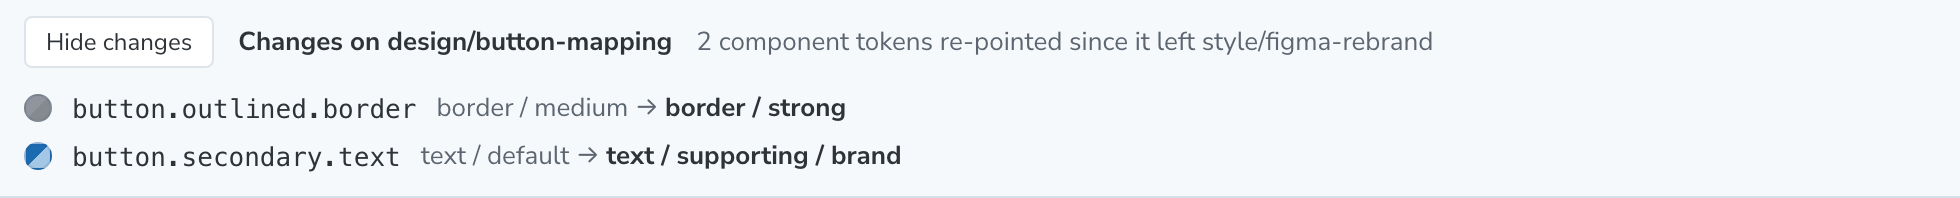
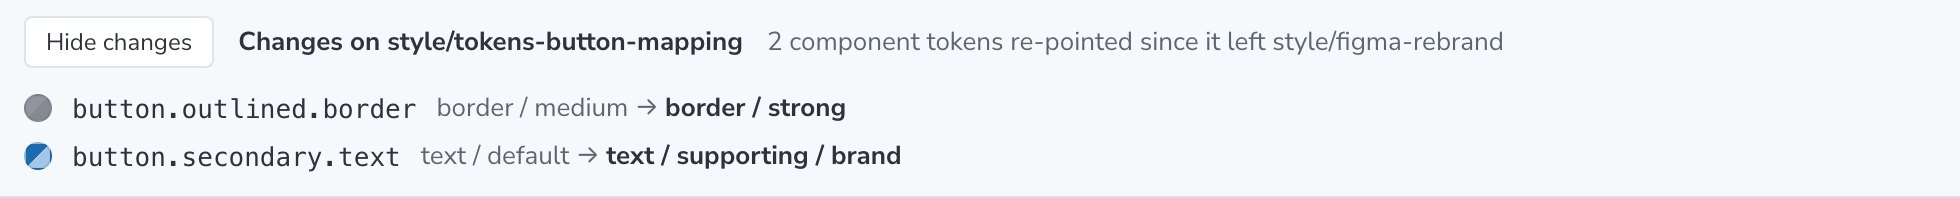
Token swap guide: final branch names, refreshed screenshots
- Tool branch is feat/token-swap-tool (draft PR nestoca/fe-shared#1866);
  review branches are style/tokens-<name>
- Replace the "not on GitHub yet" badge with a link to the draft PR
- Recapture the save form, changes list and PR form, which still showed
  design/ names
- Rounded corners on the guide's own panels, matching the site

Changed region(s): [[0.1867, 0.1515, 0.7781, 0.2727]]

diff --git a/components/guide/token-swap-guide.tsx b/components/guide/token-swap-guide.tsx
@@ -11,19 +11,19 @@ import { Separator } from "@/components/ui/separator"
 import {
   CommentaryBubble,
   CopyButton,
-  MissingInfoBadge,
   Section,
   Step,
 } from "@/components/guide/guide-ui"
 import { withBasePath } from "@/lib/base-path"
 
 const REBRAND_BRANCH = "style/figma-rebrand"
-const TOOL_BRANCH = "design/token-swap-tool"
+const TOOL_BRANCH = "feat/token-swap-tool"
+const TOOL_PR_URL = "https://github.com/nestoca/fe-shared/pull/1866"
 const REPO_URL = "https://github.com/nestoca/fe-shared"
 
 function Callout({ title, children }: { title: string; children: ReactNode }) {
   return (
-    <div className="rounded-none border-l-2 border-primary bg-muted/30 p-4">
+    <div className="rounded-lg border-l-2 border-primary bg-muted/30 p-4">
       <p className="text-sm font-semibold text-foreground">{title}</p>
       <div className="mt-1 text-sm leading-relaxed text-muted-foreground">{children}</div>
     </div>
@@ -40,7 +40,7 @@ function Ui({ children }: { children: ReactNode }) {
 
 function PromptBlock({ label, prompt }: { label: string; prompt: string }) {
   return (
-    <div className="space-y-2 rounded-none border border-primary/25 bg-primary/5 p-4">
+    <div className="space-y-2 rounded-lg border border-primary/25 bg-primary/5 p-4">
       <div className="flex items-start justify-between gap-3">
         <p className="text-[11px] font-semibold tracking-wide text-primary [font-variant:small-caps]">
           {label}
@@ -58,7 +58,7 @@ function PromptBlock({ label, prompt }: { label: string; prompt: string }) {
 function Shot({ src, alt, caption }: { src: string; alt: string; caption?: ReactNode }) {
   return (
     <figure className="space-y-2">
-      <div className="overflow-x-auto rounded-none border bg-background">
+      <div className="overflow-x-auto rounded-lg border bg-background">
         {/* eslint-disable-next-line @next/next/no-img-element */}
         <img src={withBasePath(`/token-swap/${src}`)} alt={alt} className="block h-auto max-w-full" />
       </div>
@@ -88,7 +88,7 @@ const LOOP = [
   {
     where: "Token swap tool",
     what: "Which semantic token each component token points at, checked live on the real components",
-    lands: "a review branch, design/<name>",
+    lands: "a review branch, style/tokens-<name>",
   },
   {
     where: "A colleague",
@@ -164,7 +164,7 @@ export function TokenSwapGuide() {
         <Section id="ts-loop" title="How the pieces fit" description="Everything is shared through branches — the same ones Tokens Studio already uses">
           <ol className="space-y-3">
             {LOOP.map((step, i) => (
-              <li key={step.where} className="flex gap-3 rounded-none border bg-muted/20 p-3">
+              <li key={step.where} className="flex gap-3 rounded-lg border bg-muted/20 p-3">
                 <span className="flex h-7 w-7 shrink-0 items-center justify-center bg-primary font-mono text-xs font-semibold text-primary-foreground">
                   {i + 1}
                 </span>
@@ -193,7 +193,7 @@ export function TokenSwapGuide() {
           <Step number={2} title="Paste this">
             <PromptBlock label="setup prompt" prompt={SETUP_PROMPT} />
             <p className="text-sm text-muted-foreground">
-              The tool lives on its own branch for now. <MissingInfoBadge>not on GitHub yet</MissingInfoBadge>
+              The tool lives on its own branch until front-end merges it (<a href={TOOL_PR_URL} target="_blank" rel="noopener noreferrer" className="font-medium text-primary hover:underline">draft PR #1866</a>).
             </p>
           </Step>
           <Step number={3} title="Step in when it asks">
@@ -308,10 +308,10 @@ export function TokenSwapGuide() {
           <Step number={1} title="Save for review">
             <Shot
               src="save-form.png"
-              alt="The Save for review form: a review branch name, design/button-mapping, a description, and the Save and push button"
+              alt="The Save for review form: a review branch name, style/tokens-button-mapping, a description, and the Save and push button"
             />
             <p className="text-sm text-muted-foreground">
-              Click <Ui>Save for review…</Ui>, name the branch after what you changed — <Code>button-mapping</Code>, <Code>dark-mode-borders</Code> — add a one-line description, then <Ui>Save and push</Ui>. It saves to <Code>design/&lt;name&gt;</Code> on GitHub. No pull request, nothing for front-end yet. Saving takes a minute or two.
+              Click <Ui>Save for review…</Ui>, name the branch after what you changed — <Code>button-mapping</Code>, <Code>dark-mode-borders</Code> — add a one-line description, then <Ui>Save and push</Ui>. It saves to <Code>style/tokens-&lt;name&gt;</Code> on GitHub. No pull request, nothing for front-end yet. Saving takes a minute or two.
             </p>
             <p className="text-sm text-muted-foreground">
               The panel then switches to that branch, so anything else you change adds to the same review. One topic per branch keeps reviews short.
@@ -340,10 +340,10 @@ export function TokenSwapGuide() {
           <Step number={2} title="See what changed">
             <Shot
               src="changes-list.png"
-              alt="The Changes on design/button-mapping list showing each component token that was re-pointed, from and to"
+              alt="The Changes on style/tokens-button-mapping list showing each component token that was re-pointed, from and to"
             />
             <p className="text-sm text-muted-foreground">
-              <Ui>Changes on design/&lt;name&gt;</Ui> lists every component token they re-pointed, across all components. Open each component and look at it in the brands and modes that matter.
+              <Ui>Changes on style/tokens-&lt;name&gt;</Ui> lists every component token they re-pointed, across all components. Open each component and look at it in the brands and modes that matter.
             </p>
           </Step>
           <Step number={3} title="Reply">
